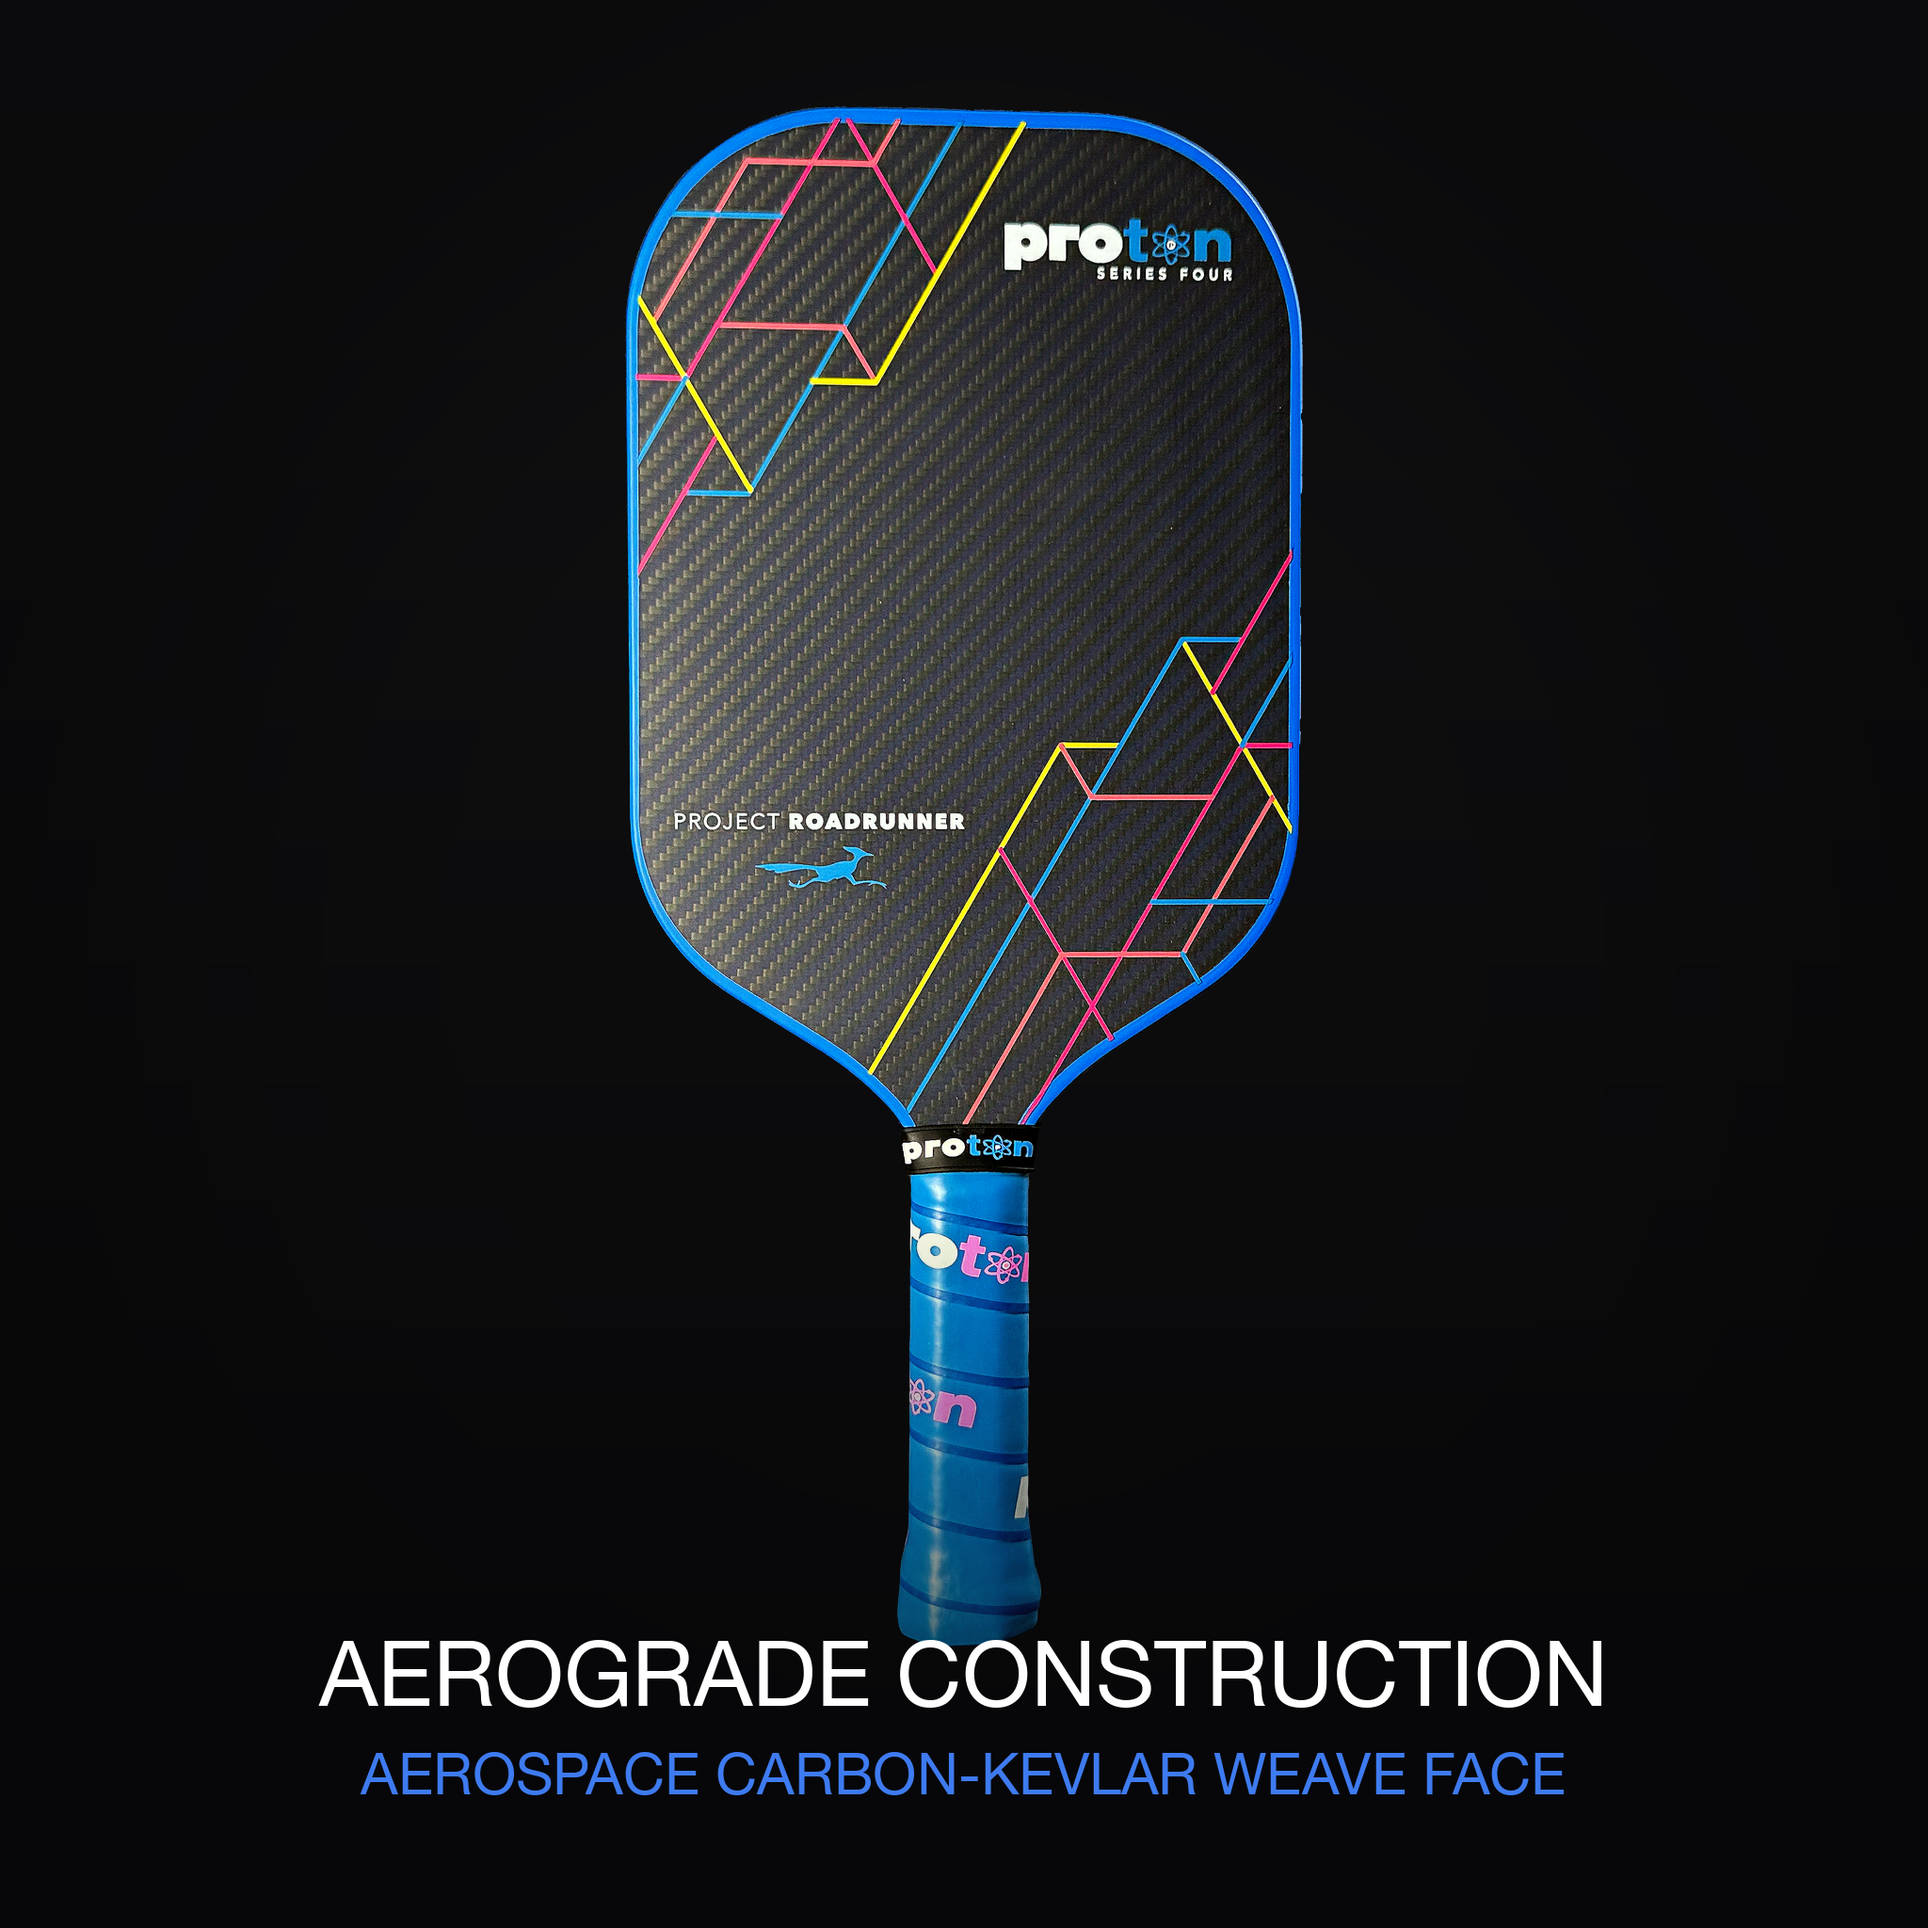
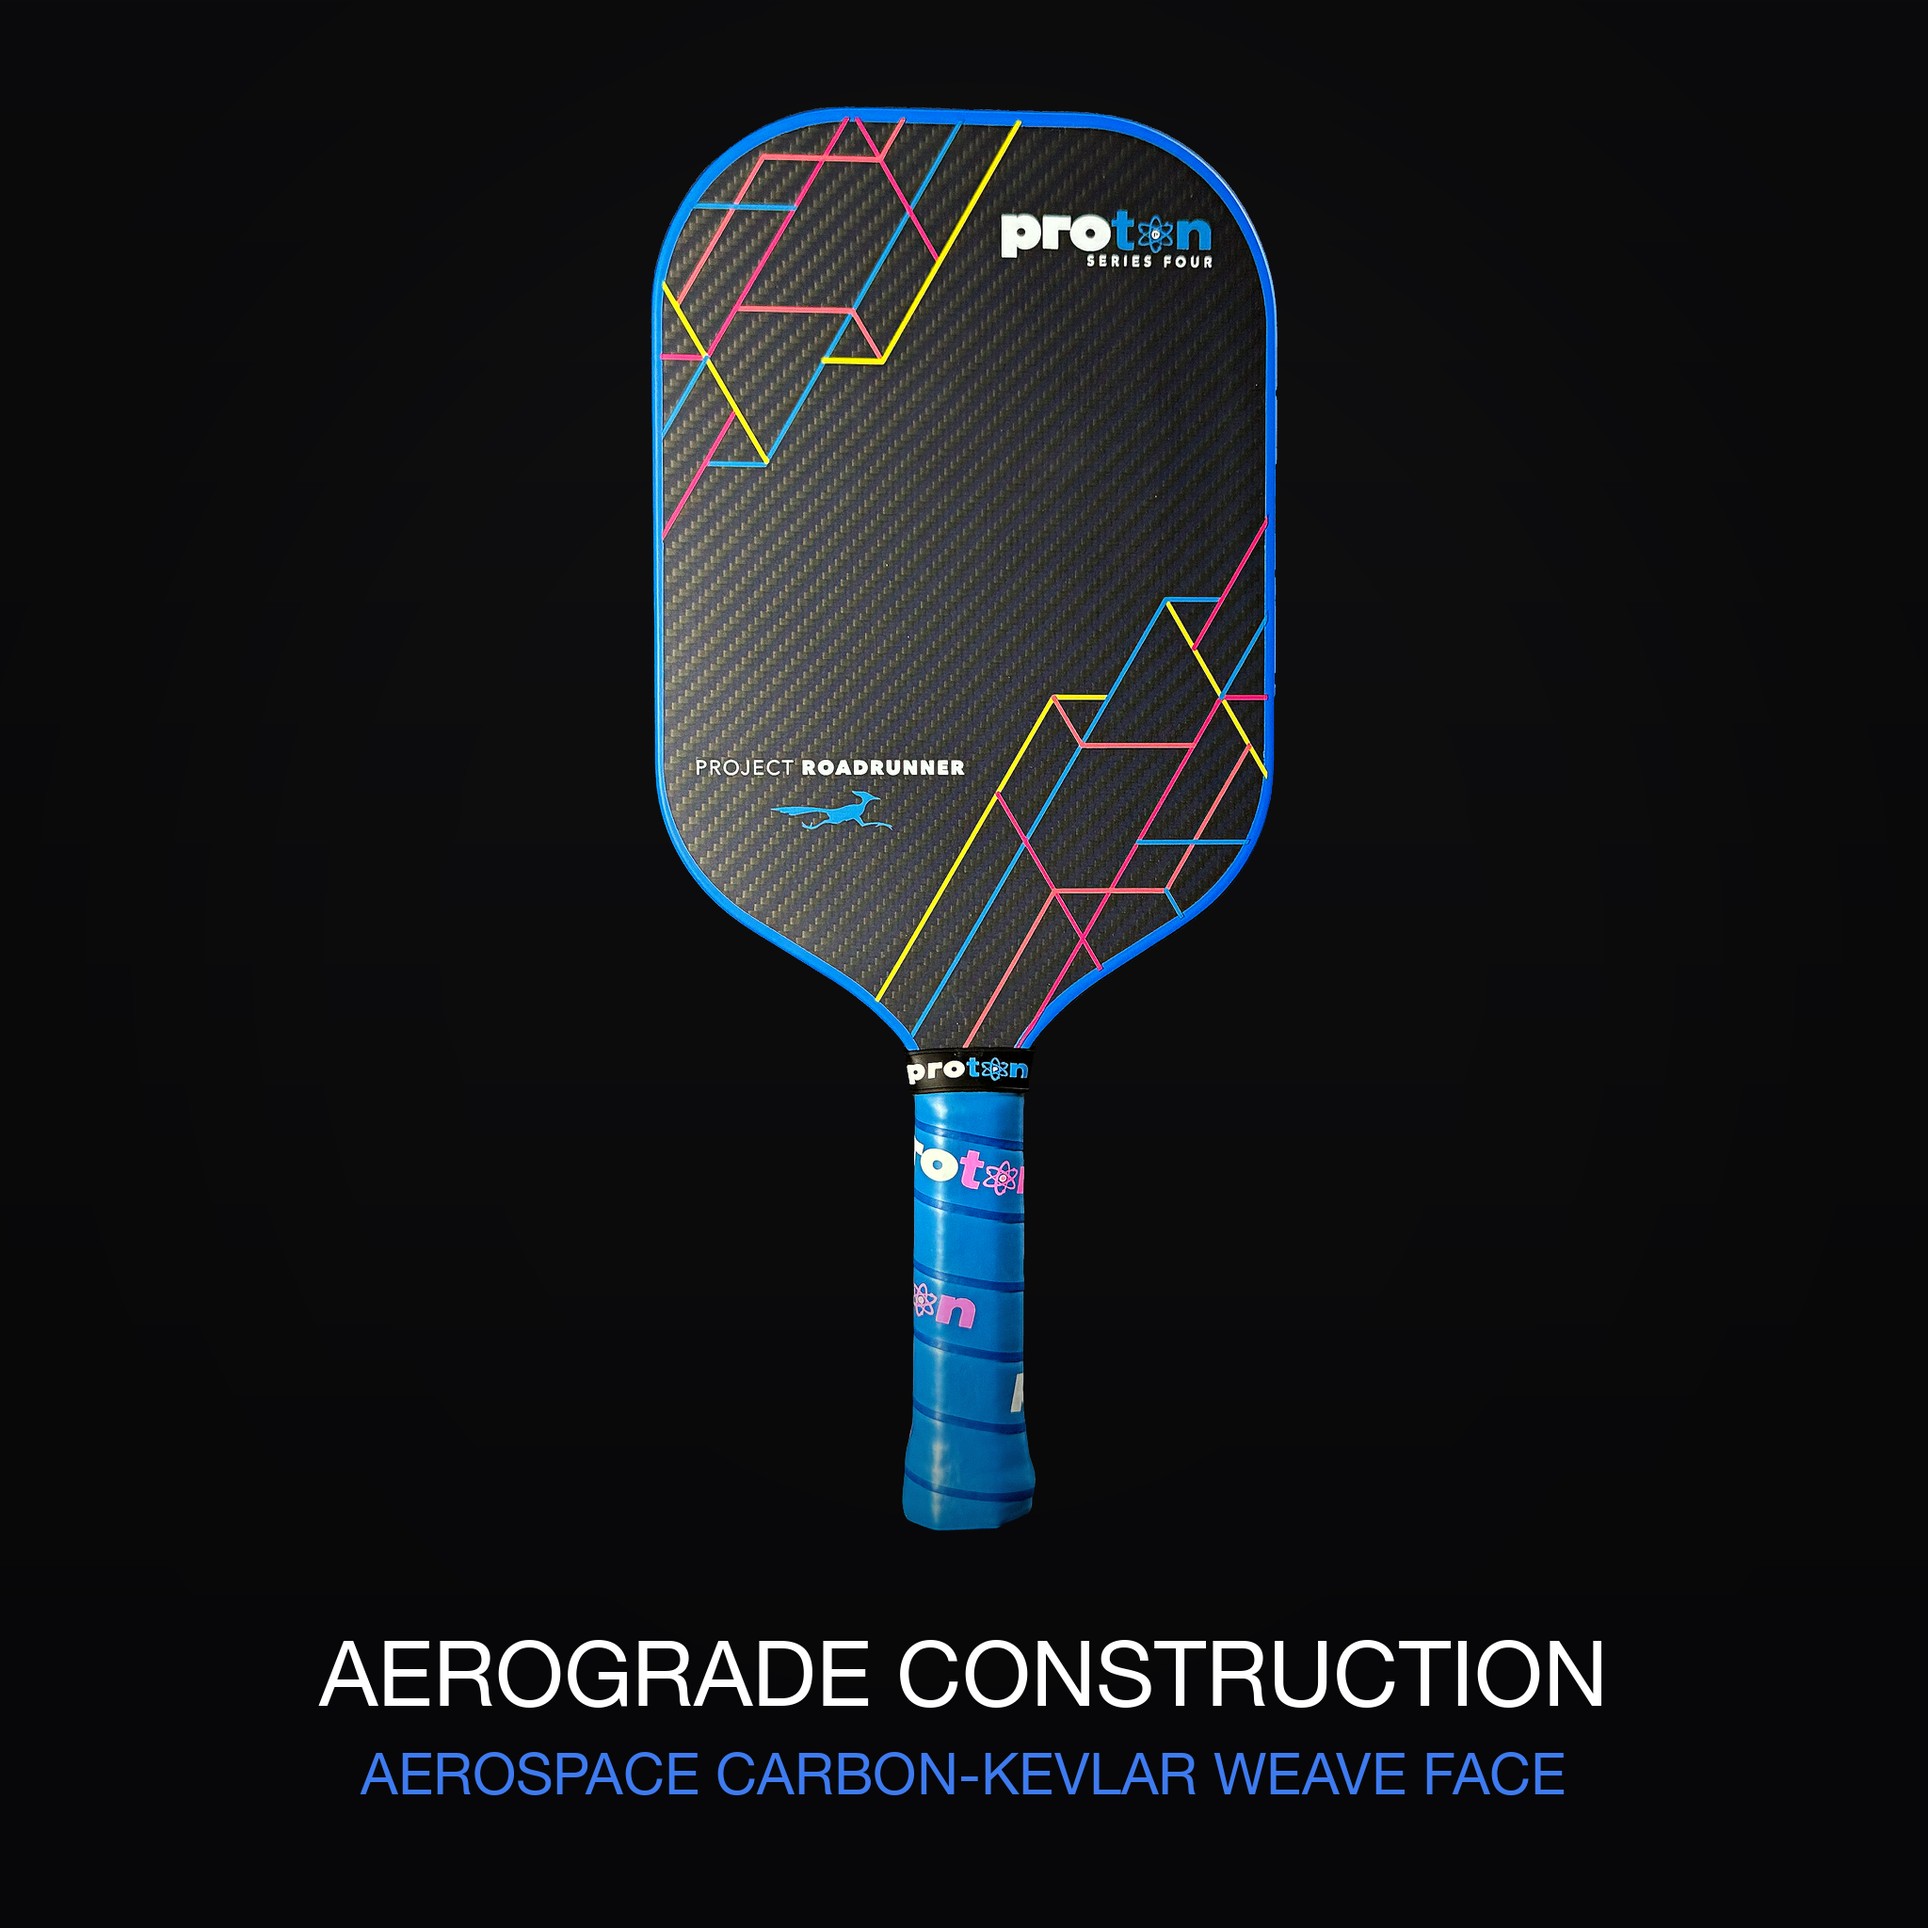
fix(images): client feedback pass on the Roadrunner product set
- 01 AeroGrade: shrink paddle so the handle clears the headline
- 02 Touch-Power Core: shorten subhead + auto-fit text (was clipping both sides)
- 03 Carbon-Kevlar Weave: clean uniform weave macro (no blue/colored corner) +
  marker-on-face leader lines pointing to the surface (matches other paddles)
- 04 Dual-Stamp: left as-is, no pointer (paddle shows no seals to point at)
- 05 rename "Aerospace Build" -> "Aerodynamic Build" (edgeless/extended-handle angle)
- drop the text-less beauty shot from the gallery; 5-up thumb row

Changed region(s): [[0.3125, 0.0625, 0.6875, 0.875]]

diff --git a/index.html b/index.html
@@ -127,7 +127,7 @@ button{ font-family:inherit; cursor:pointer; color:inherit; }
   aspect-ratio:1/1; background:#000; border:1px solid var(--hair); border-radius:6px; overflow:hidden;
 }
 .gallery .main img{ width:100%; height:100%; object-fit:cover; }
-.thumbs{ display:grid; grid-template-columns:repeat(6,1fr); gap:8px; margin-top:10px; }
+.thumbs{ display:grid; grid-template-columns:repeat(5,1fr); gap:8px; margin-top:10px; }
 .thumb{
   aspect-ratio:1/1; background:#000; border:1px solid var(--hair); border-radius:4px; overflow:hidden;
   padding:0; opacity:.5; transition:opacity .2s, border-color .2s;
@@ -173,7 +173,7 @@ button{ font-family:inherit; cursor:pointer; color:inherit; }
 @media(max-width:920px){
   .hero{ grid-template-columns:1fr; gap:30px; }
   .buybox{ position:static; }
-  .thumbs{ grid-template-columns:repeat(6,1fr); }
+  .thumbs{ grid-template-columns:repeat(5,1fr); }
   .buybox > .kicker{ display:none; }              /* hide the Series Four eyebrow on mobile */
   .hero-promise.desk-only{ display:none; }         /* desktop promise hidden on mobile */
   .hero-promise.mob-only{ display:block; margin-top:30px; max-width:none; } /* show promise below the trust badges */
@@ -380,11 +380,10 @@ footer{ background:var(--ink-1); border-top:1px solid var(--hair-2); padding:cla
       <div class="main"><img id="heroMain" data-img="01-aerograde" src="assets/roadrunner/01-aerograde.png" alt="Series Four — Project Roadrunner paddle, AeroGrade Construction overview" /></div>
       <div class="thumbs" id="thumbs">
         <button class="thumb on" data-img="01-aerograde" aria-label="AeroGrade Construction"><img data-img="01-aerograde" src="assets/roadrunner/01-aerograde.png" alt="" /></button>
-        <button class="thumb" data-img="06-angle" aria-label="Project Roadrunner"><img data-img="06-angle" src="assets/roadrunner/06-angle.png" alt="" /></button>
         <button class="thumb" data-img="03-kevlar-face" aria-label="Carbon-Kevlar Weave Face"><img data-img="03-kevlar-face" src="assets/roadrunner/03-kevlar-face.png" alt="" /></button>
         <button class="thumb" data-img="02-core" aria-label="Touch-Power Hybrid Core"><img data-img="02-core" src="assets/roadrunner/02-core.png" alt="" /></button>
         <button class="thumb" data-img="04-dual-stamp" aria-label="Dual-Stamped Approval"><img data-img="04-dual-stamp" src="assets/roadrunner/04-dual-stamp.png" alt="" /></button>
-        <button class="thumb" data-img="05-build" aria-label="Aerospace Build"><img data-img="05-build" src="assets/roadrunner/05-build.png" alt="" /></button>
+        <button class="thumb" data-img="05-build" aria-label="Aerodynamic Build"><img data-img="05-build" src="assets/roadrunner/05-build.png" alt="" /></button>
       </div>
       <div class="hero-promise desk-only">
         <p>Explosive power off the face — and the grit to keep it there. <span class="grad">That's what the carbon-Kevlar weave and Touch-Power Core give you</span> — touch on the dink, power on the drive, a face that stays gritty across thousands of hits.</p>
